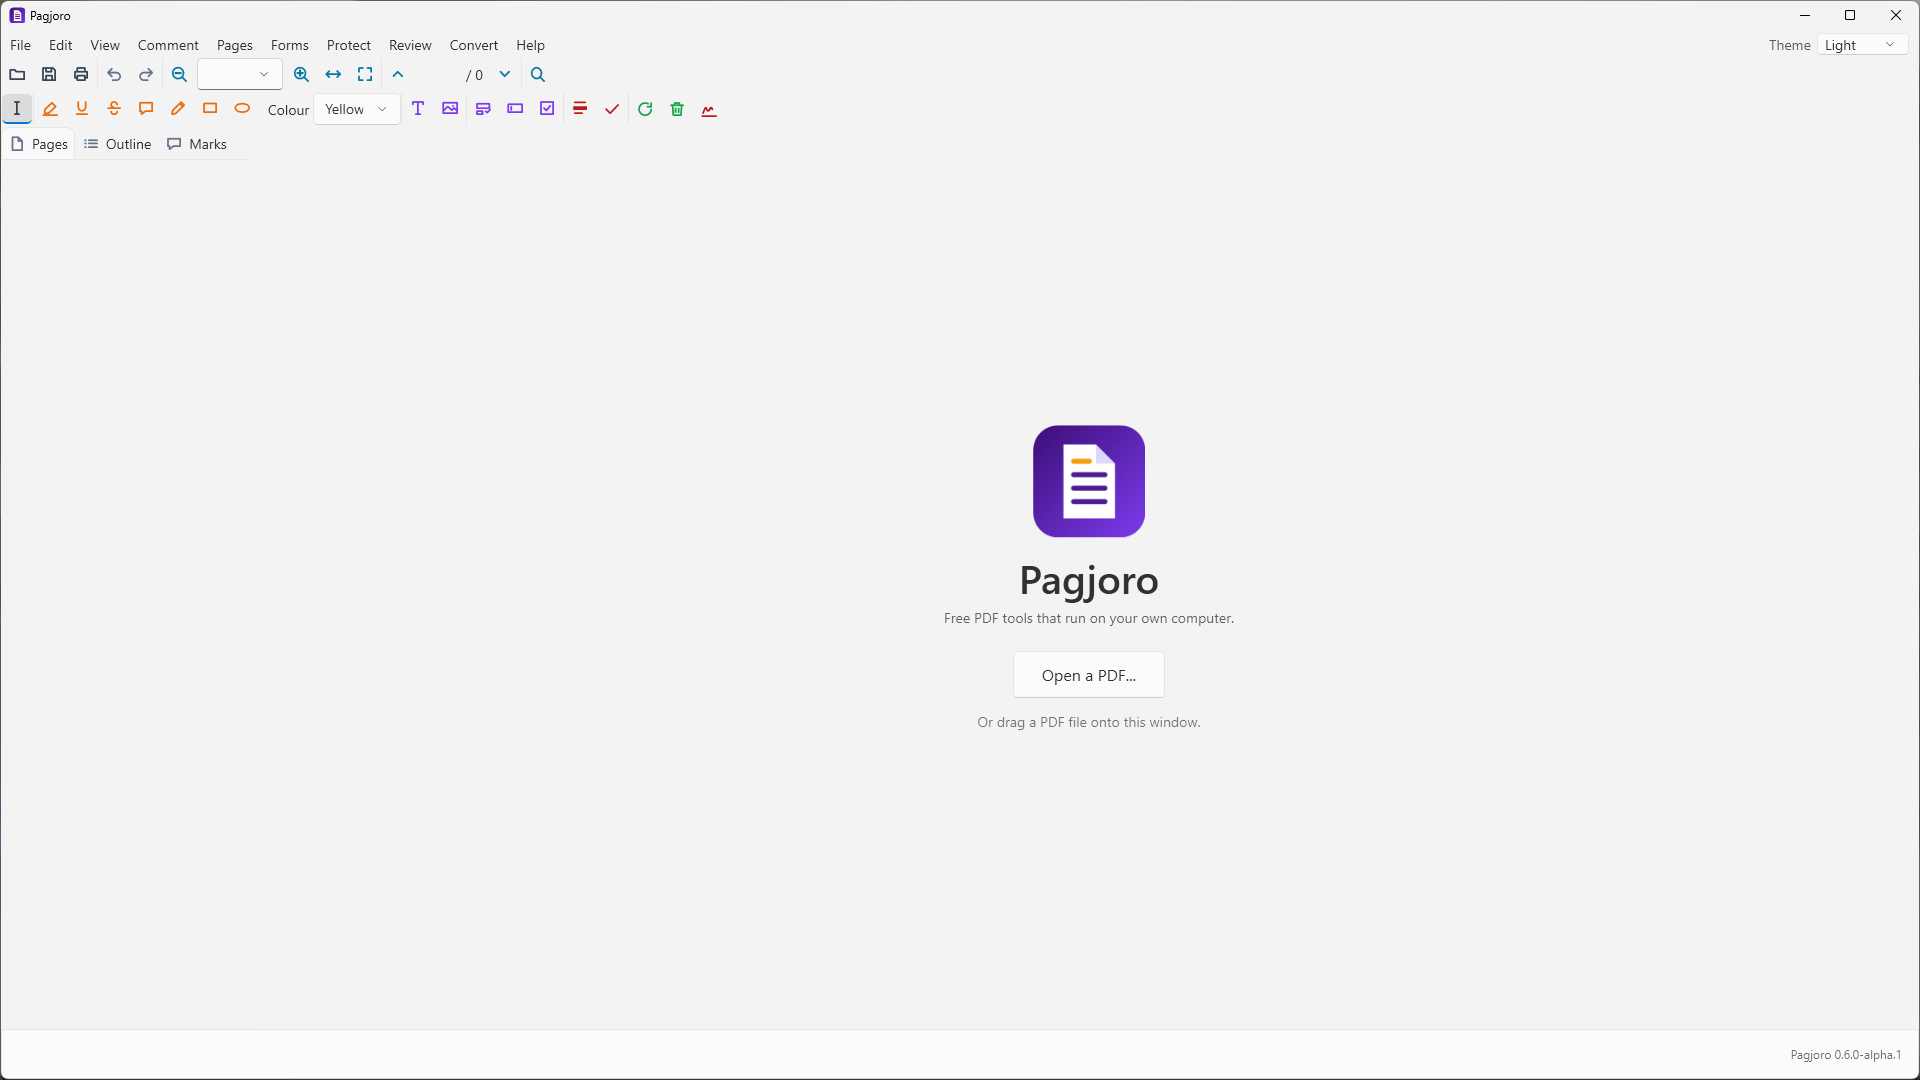
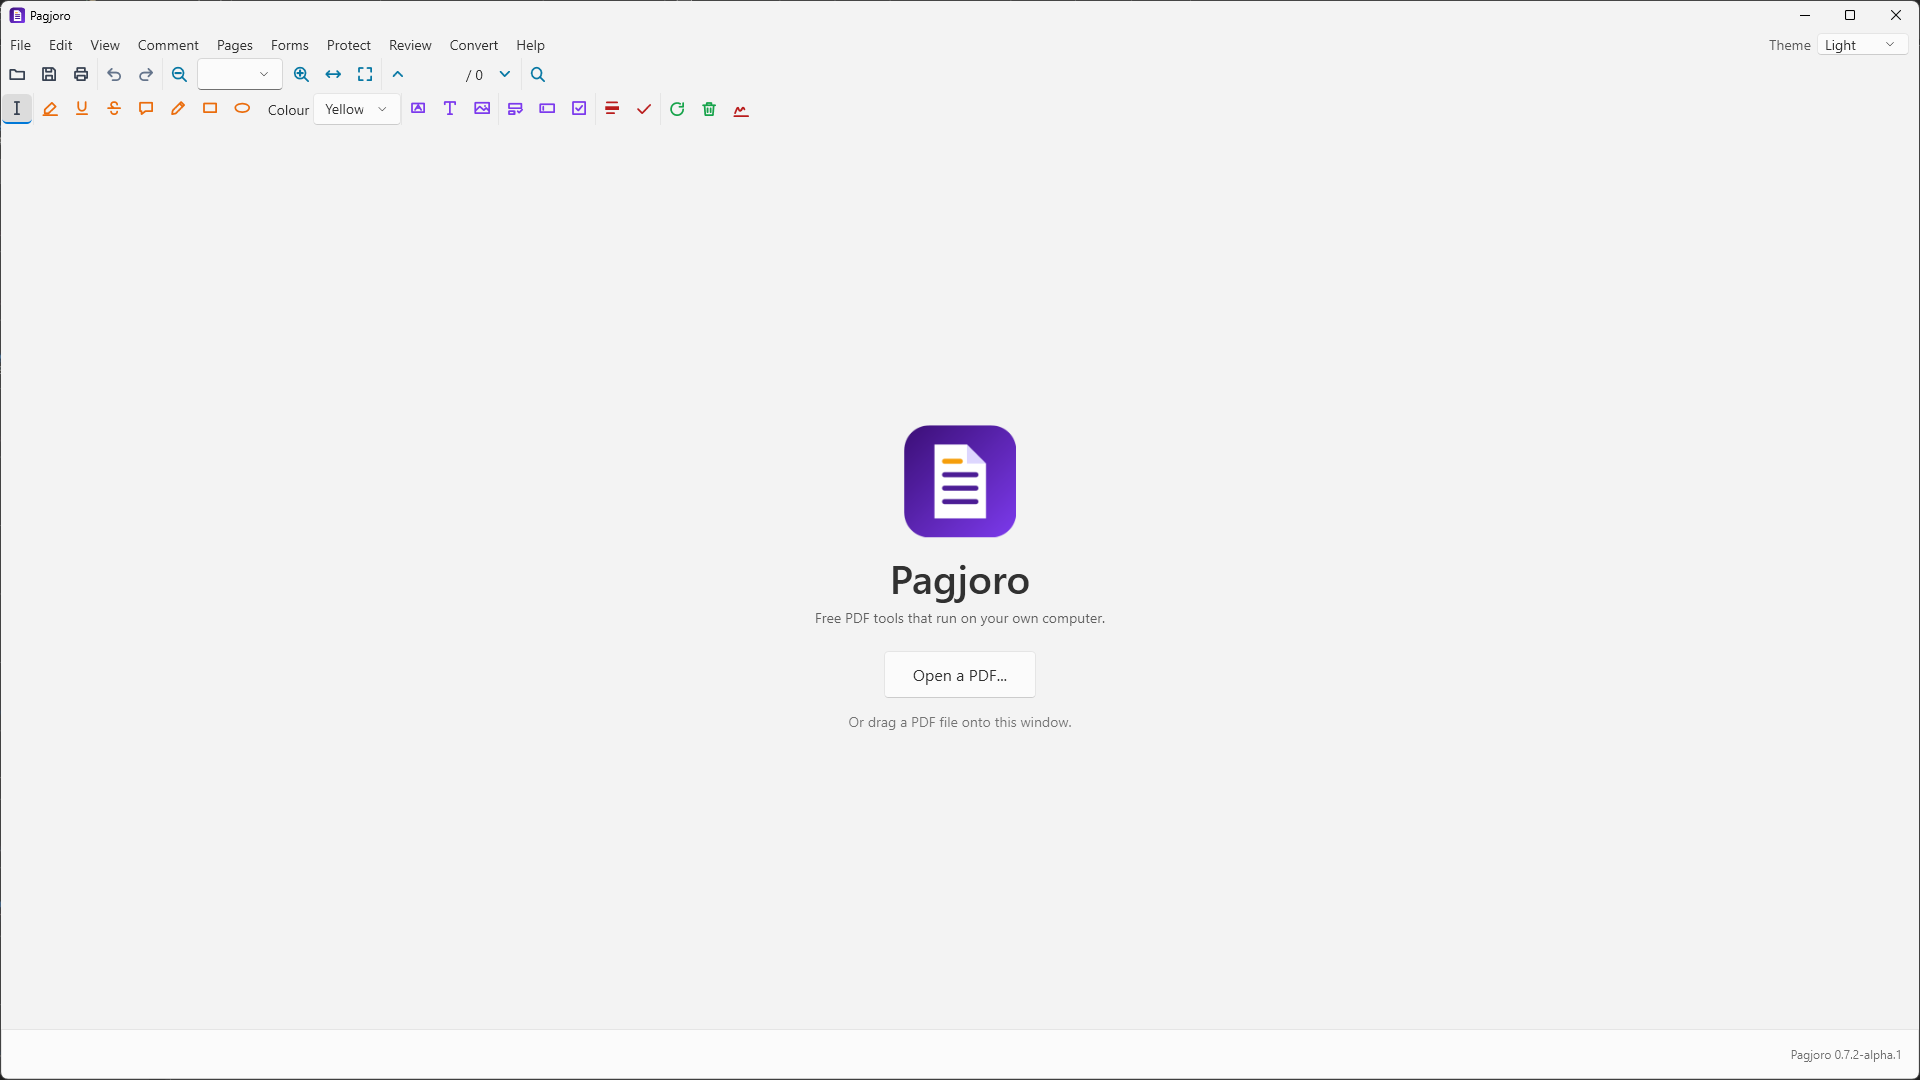
Pagjoro 0.7.2-alpha.1: centred start screen

diff --git a/src/Pagjoro.App/MainWindow.xaml b/src/Pagjoro.App/MainWindow.xaml
@@ -357,7 +357,7 @@
                 </TabItem>
             </TabControl>
 
-            <GridSplitter Grid.Column="1" Width="5" HorizontalAlignment="Stretch" />
+            <GridSplitter x:Name="SideSplitter" Grid.Column="1" Width="5" HorizontalAlignment="Stretch" />
 
             <Grid Grid.Column="2">
                 <Grid.RowDefinitions>
@@ -383,28 +383,29 @@
                     <local:DocumentView x:Name="View" />
                 </ScrollViewer>
 
-                <!-- shown until a file is open -->
-                <Border x:Name="Welcome" Grid.Row="1">
-                    <StackPanel VerticalAlignment="Center" HorizontalAlignment="Center" MaxWidth="560">
-                        <Image Source="Assets/Pagjoro.png" Width="112" Height="112" HorizontalAlignment="Center" Margin="0,0,0,14" RenderOptions.BitmapScalingMode="HighQuality" />
-                        <TextBlock Text="Pagjoro" FontSize="40" FontWeight="SemiBold" HorizontalAlignment="Center" />
-                        <TextBlock Text="Free PDF tools that run on your own computer." Opacity="0.75" HorizontalAlignment="Center" Margin="0,4,0,24" />
-                        <Button Content="Open a PDF..." Padding="28,12" FontSize="16" HorizontalAlignment="Center" Click="OnOpen" />
-                        <TextBlock Text="Or drag a PDF file onto this window." Opacity="0.65" HorizontalAlignment="Center" Margin="0,14,0,0" />
-                        <TextBlock x:Name="RecentTitle" Text="Recent files" FontWeight="SemiBold" Margin="0,28,0,6" Visibility="Collapsed" />
-                        <ItemsControl x:Name="RecentList">
-                            <ItemsControl.ItemTemplate>
-                                <DataTemplate>
-                                    <TextBlock Margin="0,2">
-                                        <Hyperlink NavigateUri="{Binding Path}" RequestNavigate="OnRecent"><Run Text="{Binding Name, Mode=OneWay}" /></Hyperlink>
-                                        <Run Text="{Binding Folder, Mode=OneWay}" Foreground="Gray" />
-                                    </TextBlock>
-                                </DataTemplate>
-                            </ItemsControl.ItemTemplate>
-                        </ItemsControl>
-                    </StackPanel>
-                </Border>
             </Grid>
+
+            <!-- shown until a file is open -->
+            <Border x:Name="Welcome" Grid.Column="0" Grid.ColumnSpan="3">
+                <StackPanel VerticalAlignment="Center" HorizontalAlignment="Center" MaxWidth="560">
+                    <Image Source="Assets/Pagjoro.png" Width="112" Height="112" HorizontalAlignment="Center" Margin="0,0,0,14" RenderOptions.BitmapScalingMode="HighQuality" />
+                    <TextBlock Text="Pagjoro" FontSize="40" FontWeight="SemiBold" HorizontalAlignment="Center" />
+                    <TextBlock Text="Free PDF tools that run on your own computer." Opacity="0.75" HorizontalAlignment="Center" Margin="0,4,0,24" />
+                    <Button Content="Open a PDF..." Padding="28,12" FontSize="16" HorizontalAlignment="Center" Click="OnOpen" />
+                    <TextBlock Text="Or drag a PDF file onto this window." Opacity="0.65" HorizontalAlignment="Center" Margin="0,14,0,0" />
+                    <TextBlock x:Name="RecentTitle" Text="Recent files" FontWeight="SemiBold" Margin="0,28,0,6" Visibility="Collapsed" />
+                    <ItemsControl x:Name="RecentList">
+                        <ItemsControl.ItemTemplate>
+                            <DataTemplate>
+                                <TextBlock Margin="0,2">
+                                    <Hyperlink NavigateUri="{Binding Path}" RequestNavigate="OnRecent"><Run Text="{Binding Name, Mode=OneWay}" /></Hyperlink>
+                                    <Run Text="{Binding Folder, Mode=OneWay}" Foreground="Gray" />
+                                </TextBlock>
+                            </DataTemplate>
+                        </ItemsControl.ItemTemplate>
+                    </ItemsControl>
+                </StackPanel>
+            </Border>
         </Grid>
 
         <!-- status -->

diff --git a/src/Pagjoro.App/MainWindow.xaml.cs b/src/Pagjoro.App/MainWindow.xaml.cs
@@ -103,6 +103,8 @@ public partial class MainWindow : Window
         var has = doc is not null;
         Welcome.Visibility = has ? Visibility.Collapsed : Visibility.Visible;
         View.Visibility = has ? Visibility.Visible : Visibility.Collapsed;
+        // with nothing open the side panes have nothing to show, so the start screen takes the whole window and sits in its middle
+        SideTabs.Visibility = SideSplitter.Visibility = has ? Visibility.Visible : Visibility.Collapsed;
     }
 
     void UpdateTitle()

diff --git a/README.md b/README.md
@@ -8,7 +8,7 @@
 
 On that page, download **Pagjoro.exe** under **Assets** and double-click it. There is no installer. (Early previews are marked *Pre-release*; if the link above says there is no release, open the [releases page](https://github.com/Tusivo/Pagjoro/releases) and choose the newest one.)
 
-> **Status: v0.7.1-alpha.1, an early preview.** Reading, marking up, organizing, forms, protecting, redacting and signing work, and more is on the way (see the [roadmap](#roadmap)). It is **not ready for documents you cannot afford to lose**, so keep a copy of anything you work on.
+> **Status: v0.7.2-alpha.1, an early preview.** Reading, marking up, organizing, forms, protecting, redacting and signing work, and more is on the way (see the [roadmap](#roadmap)). It is **not ready for documents you cannot afford to lose**, so keep a copy of anything you work on.
 
 ![Pagjoro's start screen with its purple icon, an Open a PDF button, and the menus and toolbar above](docs/screenshots/welcome-light.png)
 *The start screen: open a PDF or drag one onto the window. Menus and a toolbar that stays put. (Light theme.)*
